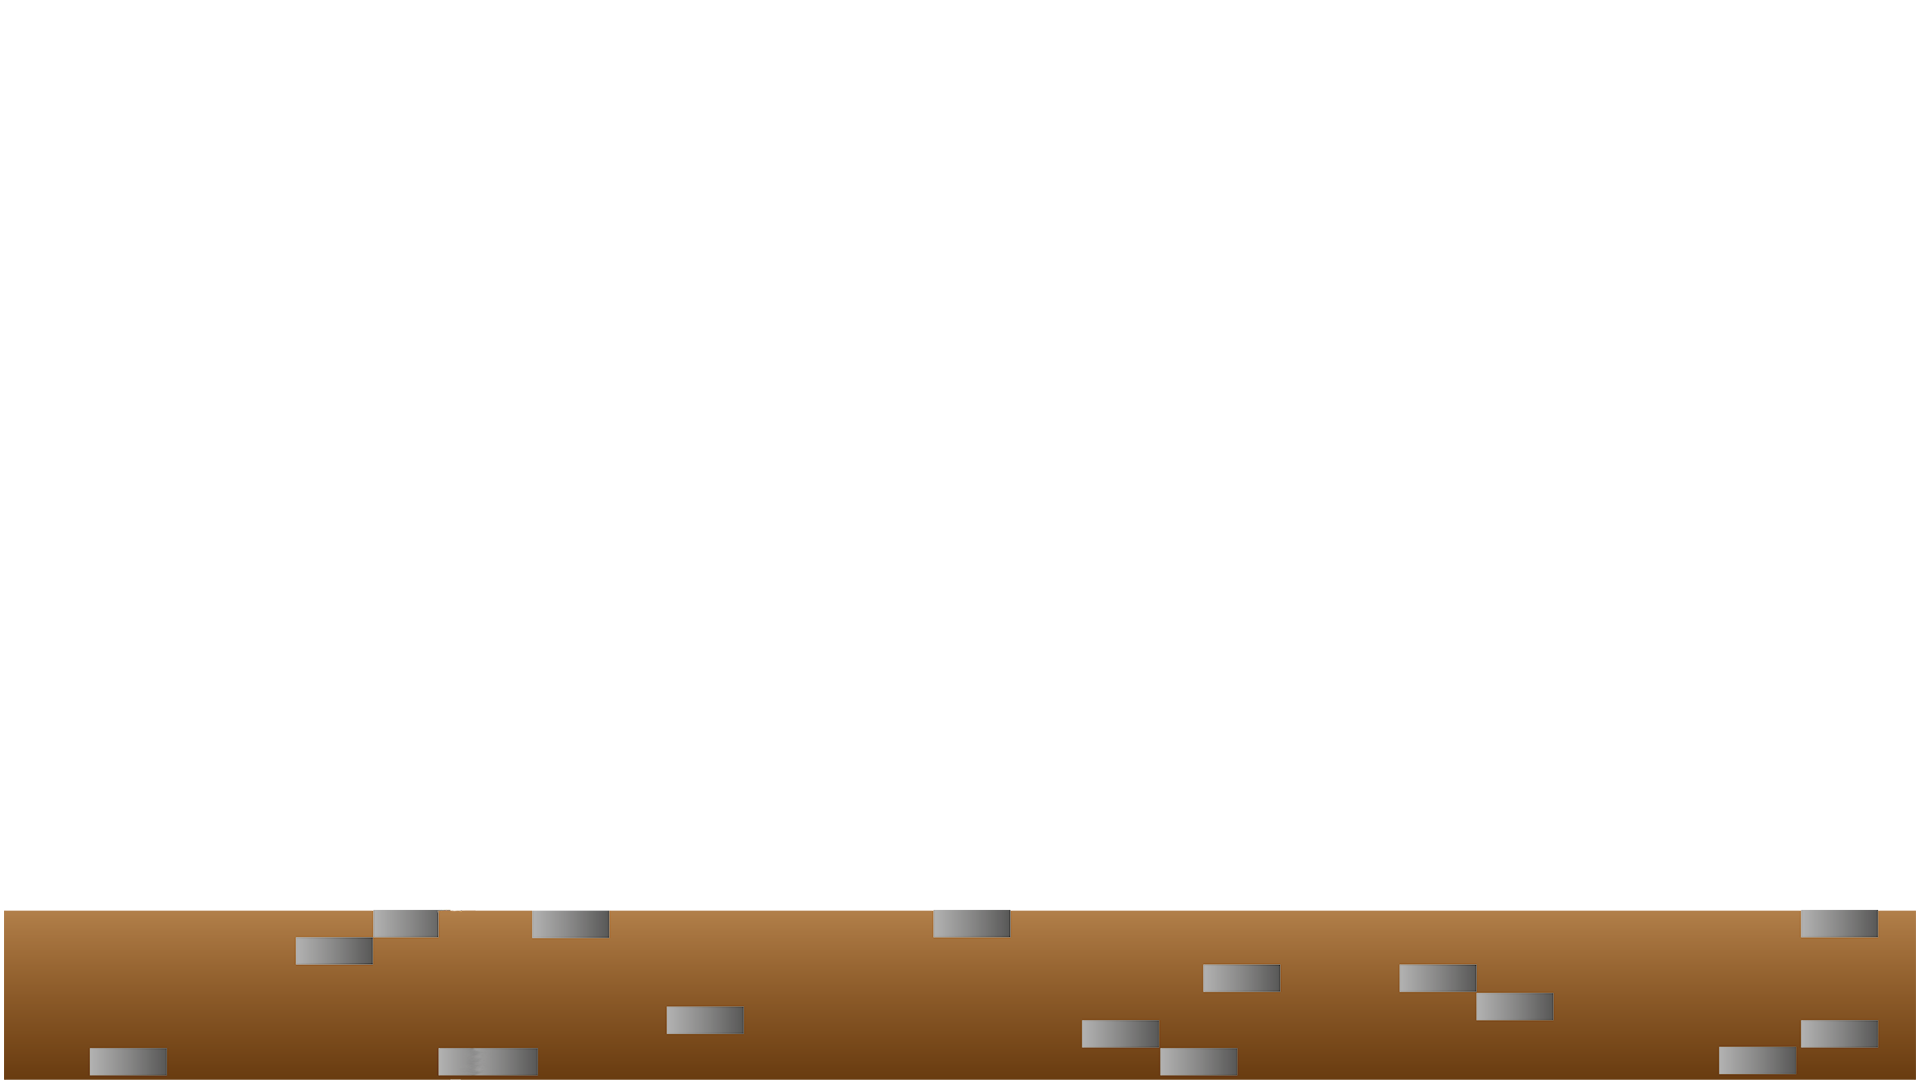
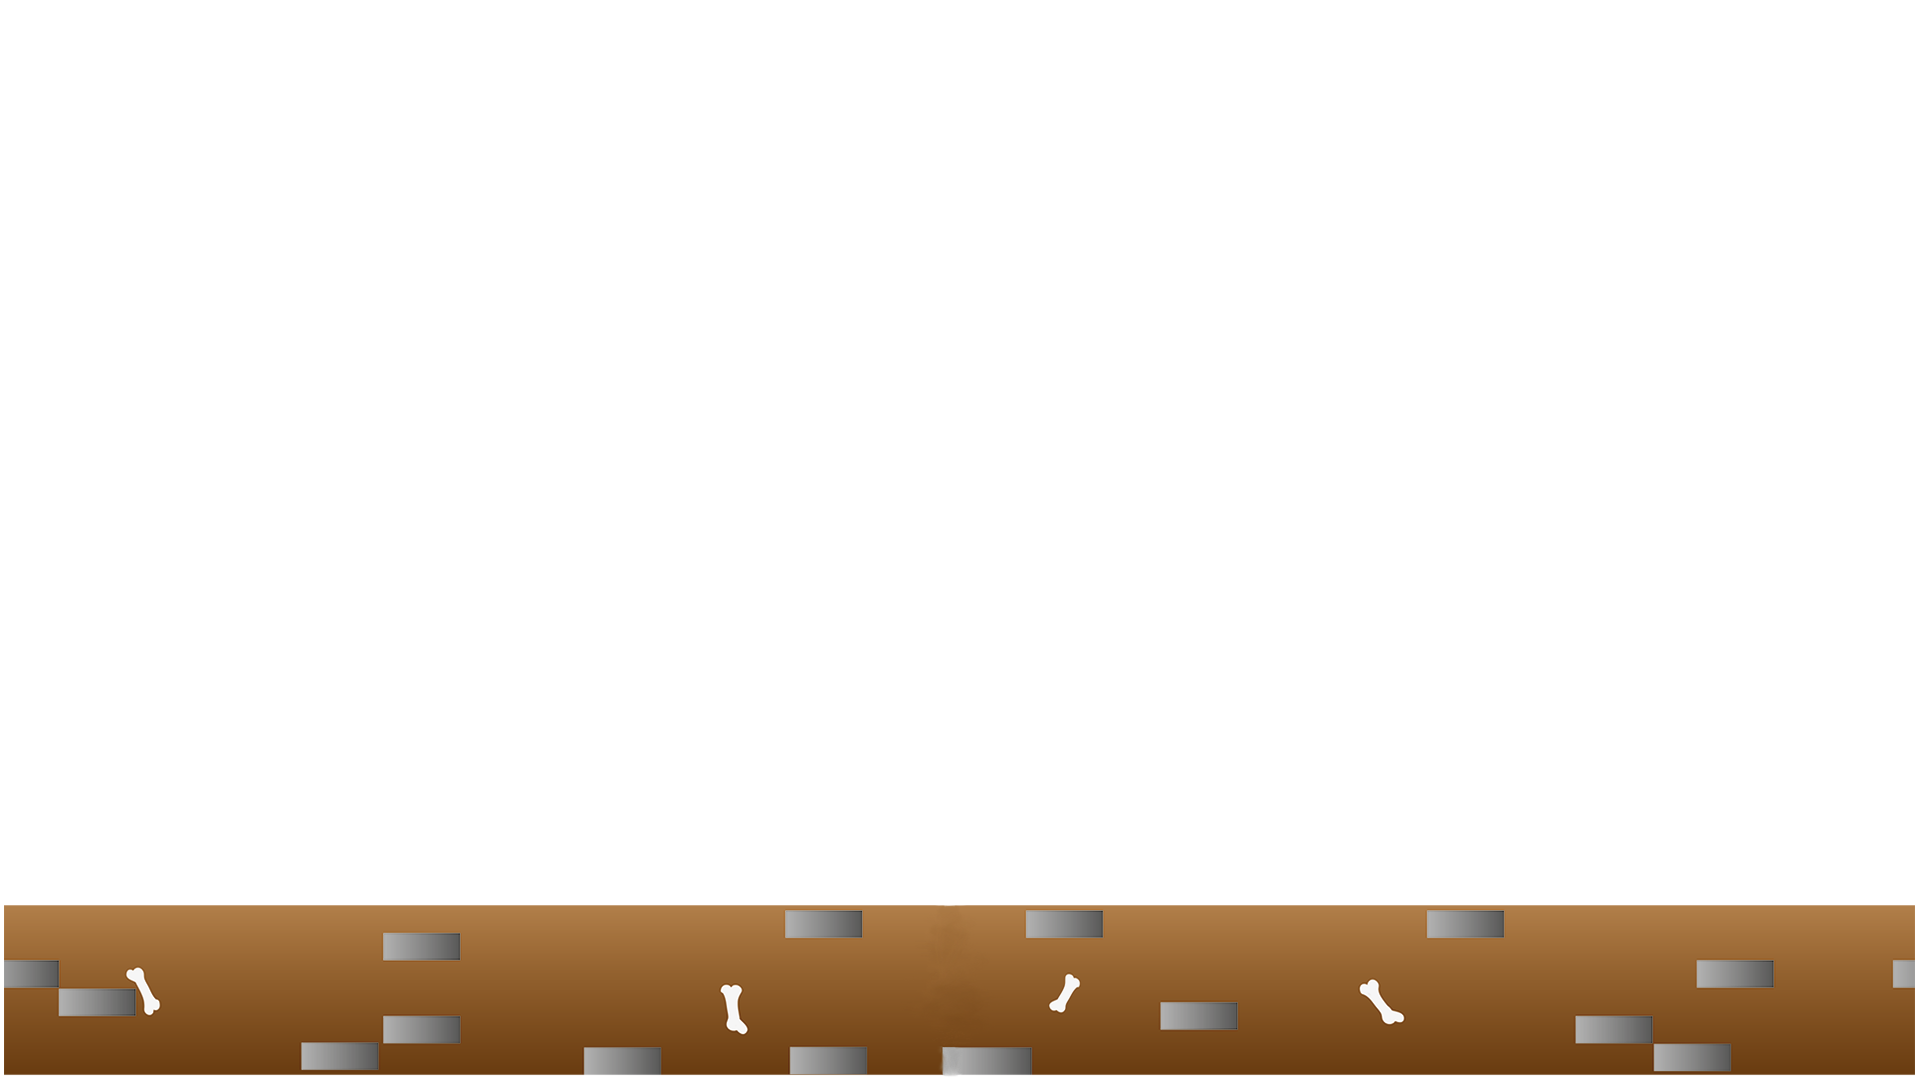
Edicion de edificios y script para el efecto parallax
Adición de edificios a una gama de colores que no interfieran con las tonalidades del presonaje y nuevo Script c# para generar el bucle de efecto parallax

Changed region(s): [[0.0, 0.825, 1.0, 1.0], [0.875, 0.8861, 0.9375, 0.9167], [0.0, 0.8861, 0.0312, 0.9167]]

diff --git a/Assets/Scripts/ParallaxMundo1.cs b/Assets/Scripts/ParallaxMundo1.cs
@@ -1,0 +1,36 @@
+using System.Collections;
+using System.Collections.Generic;
+using UnityEngine;
+/*executa sin estar en el modo play*/
+[ExecuteInEditMode]
+public class ParallaxMundo1 : MonoBehaviour
+{
+    private float length;
+    private float startPos;
+    public float EfectoParallax;
+    // Start is called before the first frame update
+    void Start()
+    {
+        startPos = transform.position.x ;
+        length = GetComponent<SpriteRenderer>().bounds.size.x;
+    }
+
+    // Update is called once per frame
+    void Update()
+    {
+        float temporal = (Camera.main.transform.position.x * (1 - EfectoParallax));
+        float dist = (Camera.main.transform.position.x * EfectoParallax);
+
+        transform.position = new Vector3(startPos + dist, transform.position.y, transform.position.z);
+
+        if (temporal > startPos + length)
+        {
+            startPos += length;
+        }
+        else if (temporal < startPos - length)
+        {
+            startPos -= length;
+        }
+        
+    }
+}
